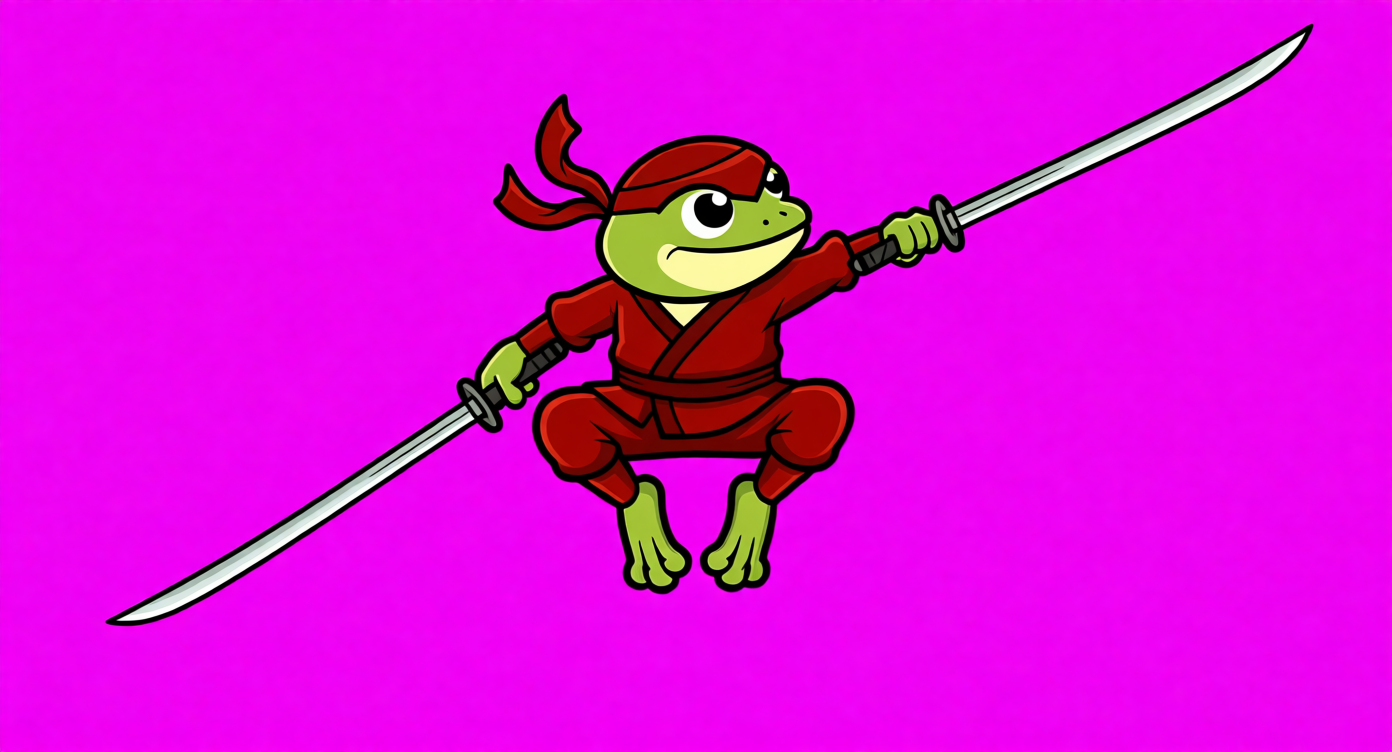
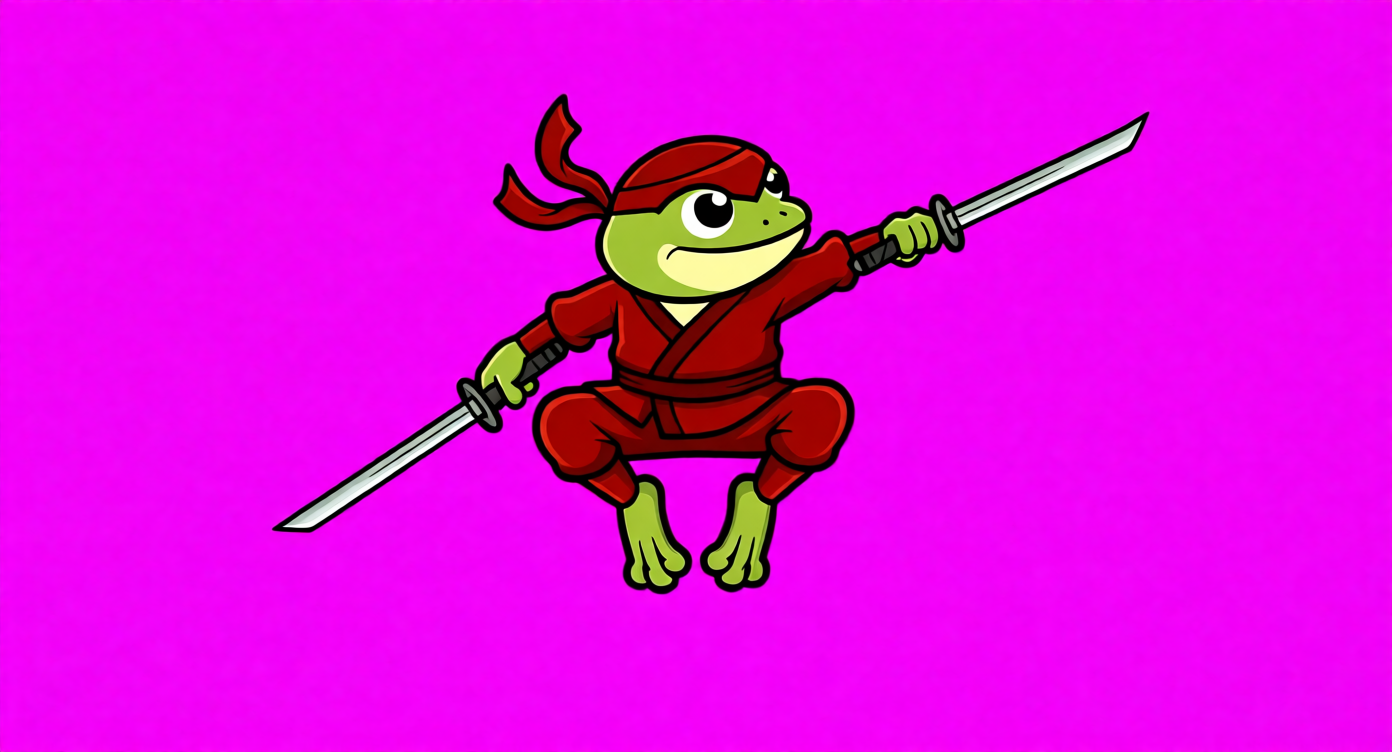
Rising cut: katanas half as long (Marek)

Changed region(s): [[0.0618, 0.6729, 0.2162, 0.8564], [0.8032, 0.0306, 0.9576, 0.2141]]

diff --git a/static/js/views/frog-game.js b/static/js/views/frog-game.js
@@ -292,7 +292,7 @@ const UNDER_ART = { url: '/img/game/frog/under.501431f6a6.webp', size: [924, 795
 const DUCK_ART = { url: '/img/game/frog/duck.5315c8fe2f.webp', size: [800, 702], mid: 390, feet: 690, headW: 325, front: true };
 // the rising cut (Marek's pick 2026-11-22): an upward stroke, or one above its head, and it jumps, knees tucked, one long katana driven up and out, the other low behind: one rising diagonal.
 // Drawn cutting up to the right, mirrored for the left; lift: how far the toes float above the post.
-const RISE_ART = { url: '/img/game/frog/rise.0308a7769a.webp', size: [1207, 602], mid: 589, feet: 562, headW: 210, lift: 600 };      // (the second pick: the first, blades crossed overhead, was 'almost identical to upwards slash'; mid/feet: its feet, read off the picture)
+const RISE_ART = { url: '/img/game/frog/rise.c544f18464.webp', size: [877, 500], mid: 424, feet: 493, headW: 210, lift: 600 };      // (the second pick: the first, blades crossed overhead, was 'almost identical to upwards slash'; mid/feet: its feet, read off the picture; then 'half the length of katanas')
 // the hop (Marek's pick 2026-11-22, 'this but long katanas'): a level stroke through its body and it springs up over the blade, knees tucked, katanas out level.
 const HOP_ART = { url: '/img/game/frog/hop.f4e8b0205d.webp', size: [1280, 530], mid: 634, feet: 530, headW: 225, lift: 600, front: true };
 // the teeter (Marek's pick 2026-11-22, 'really off-base, like about to fall very strongly'; scared, not loud): under five seconds it is tipped right over
